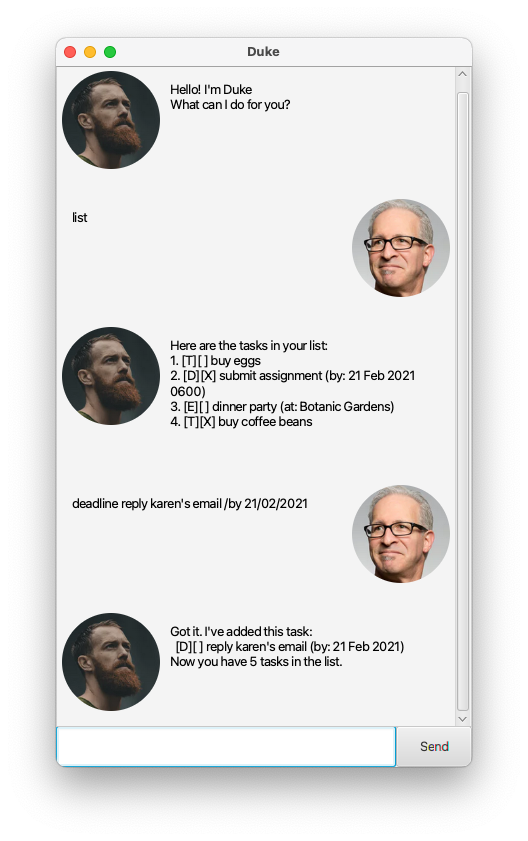
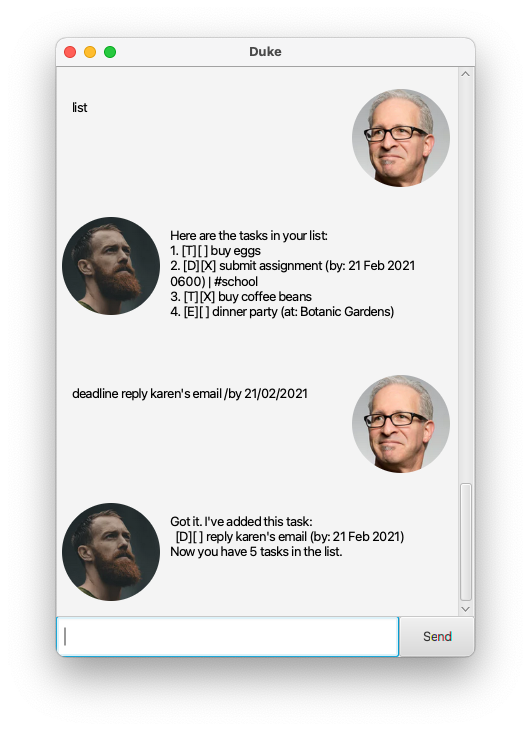
Update docs and app screenshot

diff --git a/docs/README.md b/docs/README.md
@@ -1,20 +1,51 @@
 # User Guide
+Duke is a chatbot that helps manage your to-do list.
 
-## Features 
+## Features
 
-### Feature 1 
-Description of feature.
+### `todo [description]`
+Creates a new todo with given description.
 
-## Usage
+Example: `todo buy eggs`
 
-### `Keyword` - Describe action
+### `deadline [description] /by [date]`
+Creates a new task with given description and deadline. Dates should be formatted as
+- `dd/mm/yyyy`
+- `dd/mm/yyyy hhmm`
 
-Describe action and its outcome.
+Example: `deadline submit assignment /by 21/02/2021`
 
-Example of usage: 
+### `event [description] /at [location]`
+Creates a new task with given description and location.
 
-`keyword (optional arguments)`
+Example: `event picnic /at Botanic Gardens`
 
-Expected outcome:
+### `list`
+Lists all tasks currently stored in Duke.
 
-`outcome`
+Example: `list`
+
+### `find [keyword]`
+Search and lists all tasks containing the keyword.
+
+Example: `find assignment`
+
+### `done [index]`
+Marks the task with the given index as done.
+
+Example: `done 3`
+
+### `delete [index]`
+Deletes the task at the given index.
+
+Example: `delete 3`
+
+### `tag [index] [tag]`
+Tags the task at the given index with the specified tag.
+
+Example: `tag 3 school`
+
+### `bye`
+Terminates the chatbot session.
+
+Example: `bye`
